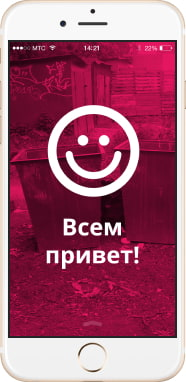
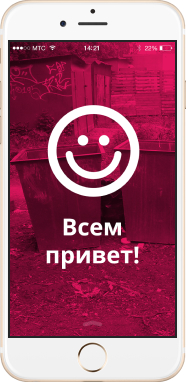
Адаптивная графика всех страниц

diff --git a/source/photo.html b/source/photo.html
@@ -5,6 +5,10 @@
     <meta name="viewport" content="width=device-width, initial-scale=1">
     <title>HTML Academy: Пинк</title>
     <link href="css/style.css" rel="stylesheet">
+    <link rel="icon" href="favicon.ico">
+    <link rel="icon" href="img/favicons/icon.svg" type="image/svg+xml">
+    <link rel="apple-touch-icon" href="img/favicons/180.png">
+    <link rel="manifest" href="manifest.webmanifest">
   </head>
   <body class="page__body">
     <header class="page-header">
@@ -46,21 +50,34 @@
       <section class="photo">
         <h2 class="visually-hidden">Фотографии пользователей</h2>
         <p class="photo__slogan">Взгляните на фотографии, которые выкладывают пользователи! Видите, как не хватает ваших?</p>
-        <div class="photo__wrapper">
-          <article class="photo-post panorama">
-            <a class="panorama__pic" href="#"><img></a>
-            <div class="panorama__wrapper">
-              <p class="photo-author">Анна <time datetime="26.07.2021"> (5 минут назад)</time></p>
-              <p class="photo-text">Прыгать или нет? Напишите в комментарии свой совет и смотрите прямую трансляцию в перископе, задавайте свои вопросы!</p>
-              <div class="photo-like">
-                <button class="like-button button"><img src="img/like_button.svg"></button>
-                <p class="like-counter">Нравится: 215</p>
-            </div>
-            </div>
-          </article>
 
+        <article class="photo-post panorama">
+          <a class="panorama__pic" href="#">
+            <picture>
+              <source media="(min-width: 1200px)" srcset="img/article_photo_one_desktop.jpg 1x, img/article_photo_one_desktop@2x.jpg 2x">
+              <source media="(min-width: 768px)" srcset="img/article_photo_one_tablet.jpg 1x, img/article_photo_one_tablet@2x.jpg 2x">
+              <img src="img/article_photo_one.jpg" alt="Панорама">
+            </picture>
+          </a>
+          <div class="panorama__wrapper">
+            <p class="photo-author">Анна <time datetime="26.07.2021"> (5 минут назад)</time></p>
+            <p class="photo-text">Прыгать или нет? Напишите в комментарии свой совет и смотрите прямую трансляцию в перископе, задавайте свои вопросы!</p>
+            <div class="photo-like">
+              <button class="like-button button"><img src="img/like_button.svg"></button>
+              <p class="like-counter">Нравится: 215</p>
+          </div>
+          </div>
+        </article>
+
+        <div class="photo__wrapper">
           <article class="photo-post">
-            <a class="photo-pic" href="#"><img src="img/article_photo-two.jpg" width="280" height="180" alt="Фото автомобиля на стоянке"></a>
+            <a class="photo-pic" href="#">
+              <picture>
+                <source media="(min-width: 1200px)" srcset="img/atricle_photo_two_desktop.jpg 1x, img/article_photo_two_desktop@2x.jpg 2x">
+                <source media="(min-width: 768px)" srcset="img/article_photo_two_tablet.jpg 1x, img/article_photo_two_tablet@2x.jpg 2x">
+                <img src="img/article_photo_two.jpg" alt="Фото автомобиля на стоянке">
+              </picture>
+            </a>
             <p class="photo-author">Левон <time datetime="26.07.2021"> (5 часов назад)</time></p>
             <p class="photo-text">Вчера он на луну летал, сегодня в руки к нам попал.</p>
             <div class="photo-like">
@@ -70,7 +87,14 @@
           </article>
 
           <article class="photo-post">
-            <a class="photo-post__pic-three" href="#"><img src="img/article_photo_three.jpg" width="280" height="180" alt="Фото барабанов"></a>              <p class="photo-author">Антон <time datetime="26.07.2021"> (12 часов назад)</time></p>
+            <a class="photo-post__pic-three" href="#">
+              <picture>
+                <source media="(min-width: 1200px)" srcset="img/article_photo_three_desktop.jpg 1x, img/article_photo_three_desktop@2x.jpg 2x">
+                <source media="(min-width: 768px)" srcset="img/article_photo_three_tablet.jpg 1x, img/article_photo_three_tablet@2x.jpg 2x">
+                <img src="img/article_photo_three.jpg" alt="Фото барабанов">
+              </picture>
+            </a>
+            <p class="photo-author">Антон <time datetime="26.07.2021"> (12 часов назад)</time></p>
             <p class="photo-text">Соседи будут рады!</p>
             <div class="photo-like">
               <button class="like-button button"><img src="img/like_button.svg"></button>
@@ -79,7 +103,13 @@
           </article>
 
           <article class="photo-post">
-            <a class="photo-post__pic-foure" href="#"><img src="img/article_photo-foure.jpg" width="280" height="180" alt="Фото стеклянной крыши"></a>
+            <a class="photo-post__pic-foure" href="#">
+              <picture>
+                <source media="(min-width: 1200px)" srcset="img/article_photo_foure_desktop.jpg 1x, img/article_photo_foure_desktop@2x.jpg 2x">
+                <source media="(min-width: 768px)" srcset="img/article_photo_foure_tablet.jpg 1x, img/article_photo_foure_tablet@2x.jpg 2x">
+                <img src="img/article_photo-foure.jpg" alt="Фото стеклянной крыши">
+              </picture>
+            </a>
             <p class="photo-author">Борис <time datetime="26.07.2021"> (20 часов назад)</time></p>
             <p class="photo-text">Здесь могла быть ваша цитата о высоком и вечном.</p>
             <div class="photo-like">
@@ -89,7 +119,13 @@
           </article>
 
           <article class="photo-post">
-            <a class="photo-post__pic-five" href="#"><img src="img/article_photo_five.jpg" width="280" height="180" alt="Фото кубанской бахчи"></a>
+            <a class="photo-post__pic-five" href="#">
+              <picture>
+                <source media="(min-width: 1200px)" srcset="img/article_photo_five_desktop.jpg 1x, img/article_photo_five_desktop@2x.jpg 2x">
+                <source media="(min-width: 768px)" srcset="img/article_photo_five_tablet.jpg 1x, img/article_photo_five_tablet@2x.jpg 2x">
+                <img src="img/article_photo_five.jpg" alt="Фото кубанской бахчи">
+              </picture>
+            </a>
             <p class="photo-author">Сергей <time datetime="26.07.2021"> (25 часов назад)</time></p>
             <p class="photo-text">Самая кубанская в мире!</p>
             <div class="photo-like">
@@ -99,7 +135,13 @@
           </article>
 
           <article class="photo-post">
-            <a class="photo-post__pic-six" href="#"><img src="img/article_photo_six.jpg" width="280" height="180" alt="Фото ног на фоне гор"></a>
+            <a class="photo-post__pic-six" href="#">
+              <picture>
+                <source media="(min-width: 1200px)" srcset="img/article_photo_six_desktop.jpg 1x, img/article_photo_six_desktop@2x.jpg 2x">
+                <source media="(min-width: 768px)" srcset="img/article_photo_six_tablet.jpg 1x, img/article_photo_six_tablet@2x.jpg 2x">
+                <img src="img/article_photo_six.jpg" alt="Фото ног на фоне гор">
+              </picture>
+            </a>
             <p class="photo-author">Максим <time datetime="26.07.2021"> (40 часов назад)</time></p>
             <p class="photo-text">Где снег-то?</p>
             <div class="photo-like">
@@ -109,7 +151,13 @@
           </article>
 
           <article class="photo-post">
-            <a class="photo-post__pic-seven" href="#"><img src="img/article_photo_seven.jpg" width="280" height="180" alt="Фото крыла самолета на фоне заката"></a>
+            <a class="photo-post__pic-seven" href="#">
+              <picture>
+                <source media="(min-width: 1200px)" srcset="img/article_photo_seven_desktop.jpg 1x, img/article_photo_seven_desktop@2x.jpg 2x">
+                <source media="(min-width: 768px)" srcset="img/article_photo_seven_tablet.jpg 1x, img/article_photo_seven_tablet@2x.jpg 2x">
+                <img src="img/article_photo_seven.jpg" alt="Фото крыла самолета на фоне заката">
+              </picture>
+            </a>
             <p class="photo-author">Надежда <time datetime="26.07.2021"> (45 часов назад)</time></p>
             <p class="photo-text">Всем GM и взаимные лайки!</p>
             <div class="photo-like">
@@ -126,7 +174,10 @@
           <p class="upload__slogan">Затмите их всех!<br> Выкладывайте все, что накопилось в телефоне!</p>
           <div class="upload__content">
             <form class="upload__form" method="get" action="https://echo.htmlacademy.ru">
-              <img class="upload__pic" src="img/upload_pic.jpg" width="280" height="374" alt="Заргузившееся фото">
+              <picture>
+                <source media="(min-width: 768px)" srcset="img/upload_pic_tablet.jpg">
+                <img class="upload__pic" src="img/upload_pic.jpg" alt="Заргузившееся фото">
+              </picture>
 
               <fieldset>
                 <ul class="tools-list">

diff --git a/source/index.html b/source/index.html
@@ -5,6 +5,10 @@
     <meta name="viewport" content="width=device-width, initial-scale=1">
     <title>HTML Academy: Пинк</title>
     <link href="css/style.css" rel="stylesheet">
+    <link rel="icon" href="favicon.ico">
+    <link rel="icon" href="img/favicons/icon.svg" type="image/svg+xml">
+    <link rel="apple-touch-icon" href="img/favicons/180.png">
+    <link rel="manifest" href="manifest.webmanifest">
   </head>
   <body class="page__body">
     <header class="page-header">
@@ -86,7 +90,12 @@
                 <p class="information__item-text">Ставьте лайки, комментируйте, делитесь фотографиями с друзьями и заводите новых</p>
               </li>
             </ul>
-            <img class="information__picture" src="img/information-list_picture_smile.jpg" width="157" height="320" alt="Фотография на телефоне в розовом цвете">
+            <picture>
+              <source media="(min-width: 1200px)" srcset="img/information-list_picture_smile_desktop.jpg 1x, img/information-list_picture_smile_desktop@2x.jpg 2x">
+              <source media="(min-width: 768px)" srcset="img/information-list_picture_smile_tablet.jpg 1x, img/information-list_picture_smile_tablet@2x.jpg 2x">
+              <img class="information__picture" src="img/information-list_picture_smile.jpg" alt="Фотография на телефоне в розовом цвете">
+            </picture>
+
           </div>
         </div>
       </section>

diff --git a/source/less/blocks/panorama.less b/source/less/blocks/panorama.less
@@ -6,8 +6,13 @@
 .panorama__pic img {
   width: 100%;
   min-height: 137px;
-  background: @white url(../../img/article_photo_one.jpg) no-repeat;
+  // background: @white url("../img/article_photo_one.jpg") no-repeat;
   margin: 0;
+  background-size: cover;
+}
+
+.panorama .photo-author {
+  margin-top: 0;
 }
 
 .panorama__wrapper {
@@ -16,20 +21,16 @@
   // padding-top: 25px;
 }
 
-.panorama .photo-author {
-  // margin-top: 0;
-}
-
 @media (min-width: @tablet-width) {
-  .panorama {
-    grid-column: span 2;
-  }
+  // .panorama {
+  //   grid-column: span 2;
+  // }
 
   .panorama__wrapper {
     display: flex;
     flex-direction: column;
     position: relative;
-    margin: 0;
+    margin: 0 20px 50px;
     padding: 30px 70px 32px 30px;
   }
 
@@ -44,19 +45,25 @@
     margin-right: 0;
   }
 
-  .panorama__pic img {
-    background-image: url("../img/article_photo_one_tablet.jpg");
-    height: 509px;
-    margin: 0 -20px;
-  }
+  // .panorama__pic img {
+  //   // background-image: url("../img/article_photo_one_tablet.jpg");
+  //   height: 509px;
+  //   margin: 0 -20px;
+  // }
 }
 
 @media (min-width: @desktop-width) {
-  .panorama {
-    grid-column: span 3;
-  }
+  // .panorama {
+  //   grid-column: span 3;
+  // }
 
   .panorama__wrapper {
+    width: 874px;
+    margin: 0 auto 50px;
     padding: 30px 39px 31px 27px;
+  }
+
+  .panorama .photo-text {
+    margin: 0;
   }
 }

diff --git a/source/less/blocks/main-head.less b/source/less/blocks/main-head.less
@@ -2,13 +2,12 @@
   background: @black url("../img/background_mobile.jpg") no-repeat;
   background-position-x: center;
   margin: 0 auto;
-
 }
 
 .main-head h2 {
   margin: 0 auto;
   padding: 36px 26px 84px;
-  color: #FFFFFF;
+  color: @white;
   font-weight: 300;
   font-size: 24px;
   line-height: 33px;
@@ -19,6 +18,11 @@
   .main-head {
     background: @black url("../img/background__tablet.jpg") no-repeat;
     background-position-x: center;
+
+    @media (min-resolution: 2dppx) {
+      background-image: url("../img/background_tablet@2x.jpg");
+      background-size: 1338px auto;
+    }
   }
 
   .main-head h2 {

diff --git a/source/form.html b/source/form.html
@@ -5,6 +5,10 @@
     <meta name="viewport" content="width=device-width, initial-scale=1">
     <title>HTML Academy: Пинк</title>
     <link href="css/style.css" rel="stylesheet">
+    <link rel="icon" href="favicon.ico">
+    <link rel="icon" href="img/favicons/icon.svg" type="image/svg+xml">
+    <link rel="apple-touch-icon" href="img/favicons/180.png">
+    <link rel="manifest" href="manifest.webmanifest">
   </head>
   <body class="page__body">
     <header class="page-header">

diff --git a/source/less/blocks/intro.less b/source/less/blocks/intro.less
@@ -63,10 +63,13 @@
     background: url("../img/intro_background_tablet.jpg") no-repeat @dark-dark-blue;
     background-position-x: center;
     width: 100%;
-    // height: 729px;
     z-index: 3;
     margin: 0 auto;
-    // padding-top: 110px;
+
+    // @media (min-resolution: 2dppx) {
+    //   background-image: url("../img/intro_background_tablet@2x.jpg");
+    //   background-size: 1338px auto;
+    // }
   }
 
   .intro__header {

diff --git a/source/less/blocks/photo.less b/source/less/blocks/photo.less
@@ -23,10 +23,11 @@
 
   .photo__wrapper {
     display: grid;
+    width: 620px;
     grid-gap: 20px;
-    grid-template-columns: 1fr 1fr;
+    grid-template-columns: 300px 300px;
     // padding: 0 20px;
-    margin: 0 20px;
+    margin: 0 auto;
   }
 }
 
@@ -40,5 +41,7 @@
   .photo__wrapper {
     grid-template-columns: 1fr 1fr 1fr;
     grid-row-gap: 54px;
+    width: 940px;
+    margin: 0 auto;
   }
 }

diff --git a/source/less/blocks/achivement-checkbox.less b/source/less/blocks/achivement-checkbox.less
@@ -4,8 +4,8 @@
   cursor: pointer;
   top: 1px;
   left: 1px;
-  width: 35px;
-  height: 35px;
+  width: 39px;
+  height: 39px;
   background: url("../img/checkbox_checked.svg") 0 0 no-repeat;
 }
 
@@ -15,7 +15,7 @@
   cursor: pointer;
   top: 1px;
   left: 1px;
-  width: 35px;
-  height: 35px;
+  width: 39px;
+  height: 39px;
   background: url("../img/checkbox.svg") 0 0 no-repeat;
 }

diff --git a/source/less/blocks/information.less b/source/less/blocks/information.less
@@ -61,14 +61,18 @@
     display: grid;
     grid-template-columns: 1fr 1fr;
     grid-gap: 10px;
+    // height: 450px;
   }
 
   .information__picture {
     order: 0;
+    margin: 0;
+    margin-bottom: -50px;
   }
 
   .information__list {
     order: 3;
+    padding-top: 0;
   }
 
   .information__item {

diff --git a/source/less/blocks/photo-post.less b/source/less/blocks/photo-post.less
@@ -3,12 +3,6 @@
   background-color: @grey-background;
 }
 
-.photo-post__pic-two {
-  background-image: url(../img/article_photo-two.jpg);
-  width: 280px;
-  height: 180px;
-}
-
 @media (min-width: @tablet-width) {
   .photo-post {
     margin: 0;

diff --git a/source/less/blocks/photo-pic.less b/source/less/blocks/photo-pic.less
@@ -1,3 +1,7 @@
 .photo-pic {
   margin: 0 auto 25px;
 }
+
+.photo-pic img {
+  background-position-x: center;
+}
